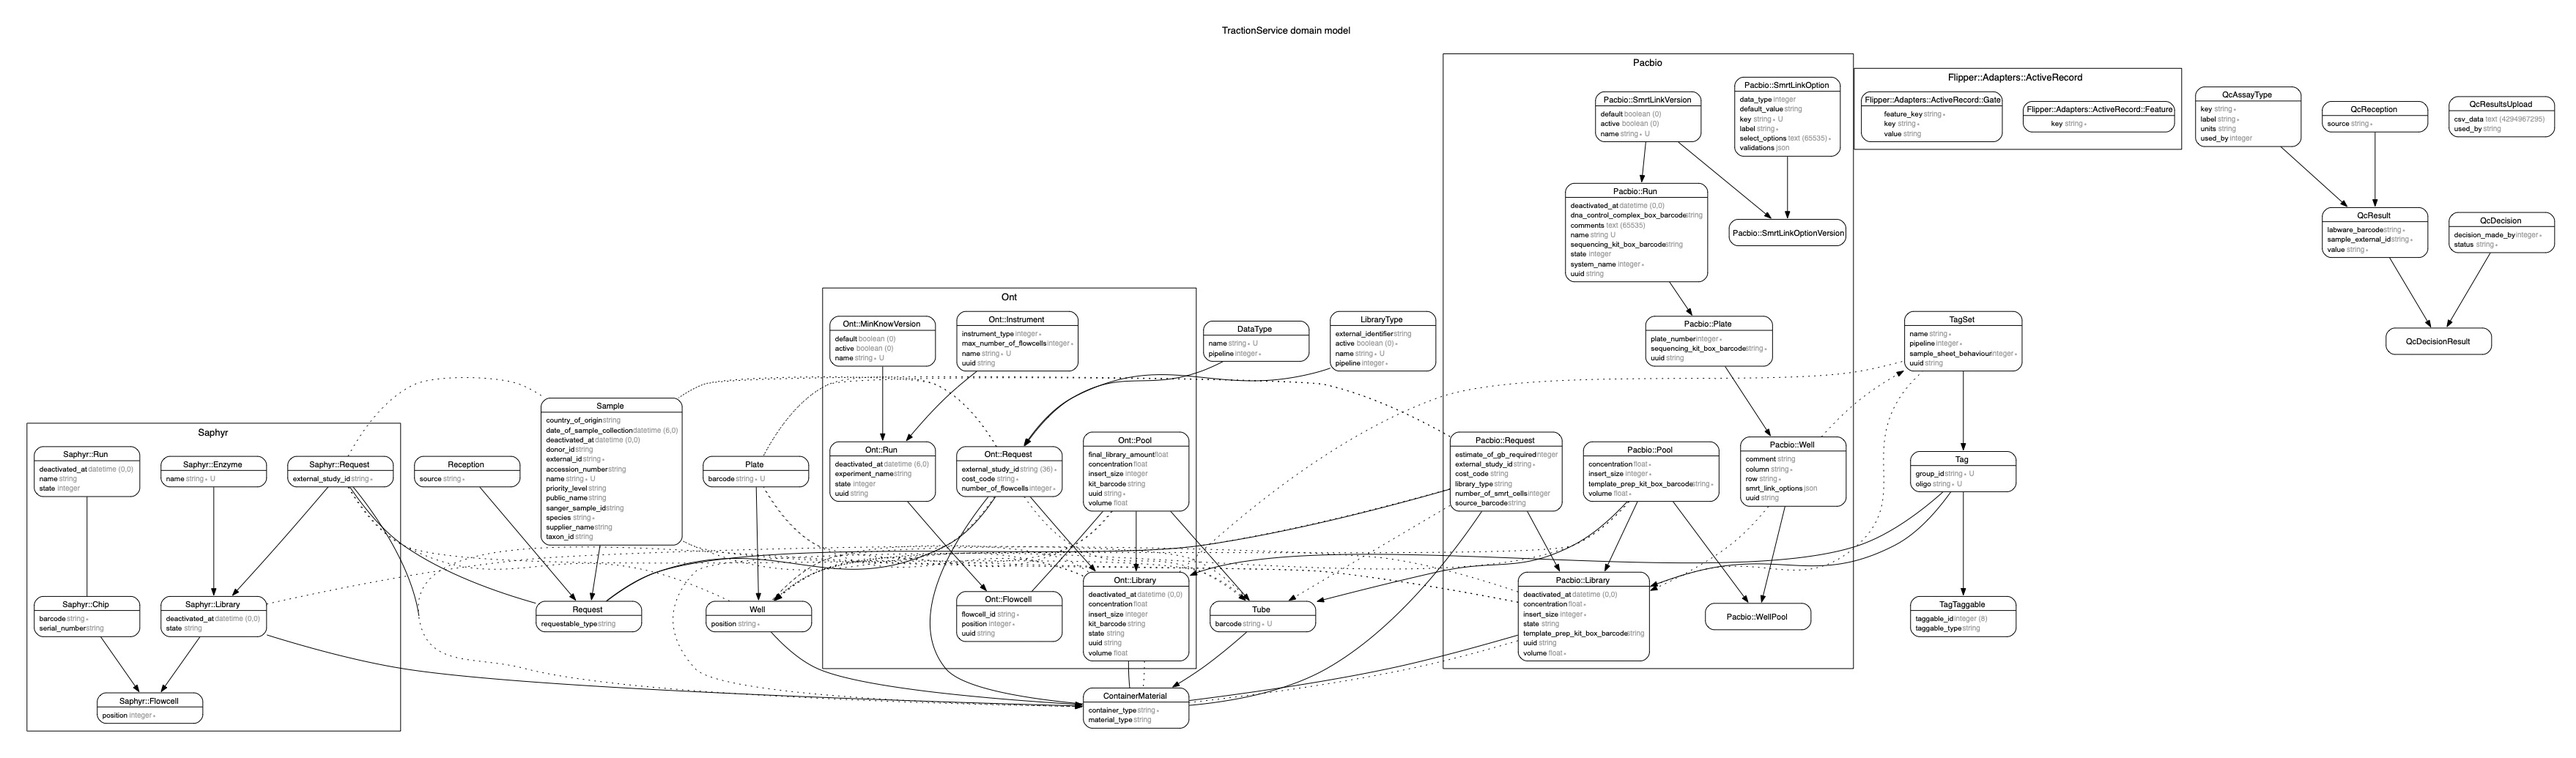
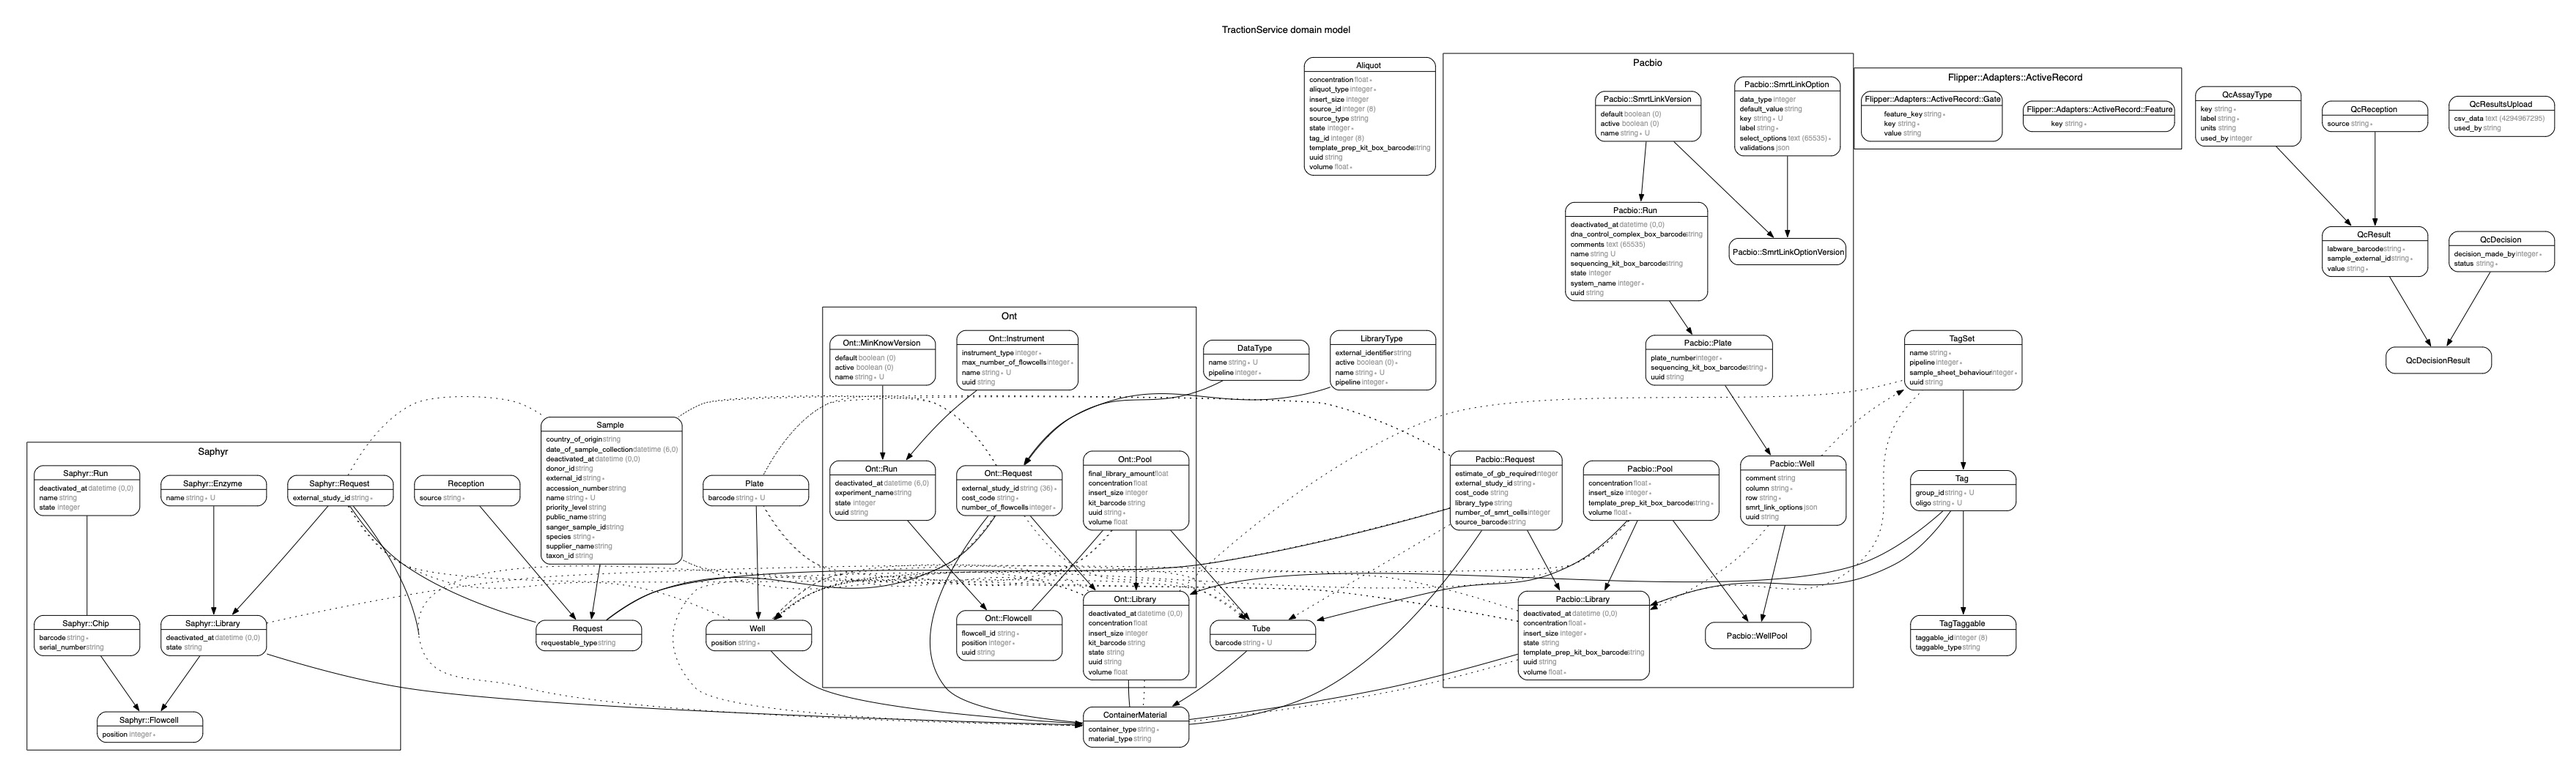
Modified migration. Added validations for volume and concentration. Added tag.

diff --git a/spec/models/aliquot_spec.rb b/spec/models/aliquot_spec.rb
@@ -1,0 +1,46 @@
+# frozen_string_literal: true
+
+require 'rails_helper'
+
+RSpec.describe Aliquot do
+  it 'is invalid without volume' do
+    aliquot = build(:aliquot, volume: nil)
+    expect(aliquot).not_to be_valid
+    expect(aliquot.errors[:volume]).to include("can't be blank")
+  end
+
+  it 'is invalid without concentration' do
+    aliquot = build(:aliquot, concentration: nil)
+    expect(aliquot).not_to be_valid
+    expect(aliquot.errors[:concentration]).to include("can't be blank")
+  end
+
+  it 'has a valid list of states' do
+    expect(described_class.states).to eq({ 'created' => 0, 'used' => 1 })
+  end
+
+  it 'is invalid without a state' do
+    expect { create(:aliquot, state: nil) }.to raise_error(ActiveRecord::NotNullViolation)
+  end
+
+  it 'has a valid list of aliquot_types' do
+    expect(described_class.aliquot_types).to eq({ 'primary' => 0, 'derived' => 1 })
+  end
+
+  it 'is invalid without an aliquot_type' do
+    expect { create(:aliquot, aliquot_type: nil) }.to raise_error(ActiveRecord::NotNullViolation)
+  end
+
+  it 'can have a tag' do
+    tag = create(:tag)
+    expect(build(:aliquot, tag:).tag).to eq(tag)
+  end
+
+  context 'uuidable' do
+    let(:uuidable_model) { :pacbio_library }
+
+    it_behaves_like 'uuidable'
+  end
+
+  skip 'is invalid without a source'
+end

diff --git a/app/models/aliquot.rb b/app/models/aliquot.rb
@@ -1,0 +1,14 @@
+# frozen_string_literal: true
+
+# Aliquot
+# A portion of a sample that is used for a library, sample or pool
+# An aliquot can be a primary aliquot or a derived aliquot
+# An aliquot can be used to track volumes and concentrations of samples
+class Aliquot < ApplicationRecord
+  enum state: { created: 0, used: 1 }
+  enum aliquot_type: { primary: 0, derived: 1 }
+
+  belongs_to :tag, optional: true
+
+  validates :volume, :concentration, presence: true
+end

diff --git a/db/migrate/20240103084837_create_aliquots.rb b/db/migrate/20240103084837_create_aliquots.rb
@@ -6,7 +6,8 @@ class CreateAliquots < ActiveRecord::Migration[7.1]
       t.string :template_prep_kit_box_barcode
       t.integer :insert_size
       t.string :uuid
-      t.string :state
+      t.integer :state, null: false, default: 0
+      t.integer :aliquot_type, null: false, default: 0
       t.belongs_to :tag, index: true
       t.belongs_to :source, polymorphic: true, index: true
       t.timestamps

diff --git a/db/schema.rb b/db/schema.rb
@@ -17,7 +17,8 @@ ActiveRecord::Schema[7.1].define(version: 2024_01_03_084837) do
     t.string "template_prep_kit_box_barcode"
     t.integer "insert_size"
     t.string "uuid"
-    t.string "state"
+    t.integer "state", default: 0, null: false
+    t.integer "aliquot_type", default: 0, null: false
     t.bigint "tag_id"
     t.string "source_type"
     t.bigint "source_id"

diff --git a/spec/factories/aliquots.rb b/spec/factories/aliquots.rb
@@ -1,0 +1,10 @@
+# frozen_string_literal: true
+
+FactoryBot.define do
+  factory :aliquot do
+    volume { 1.5 }
+    concentration { 10 }
+    template_prep_kit_box_barcode { 'ABC123' }
+    tag
+  end
+end
